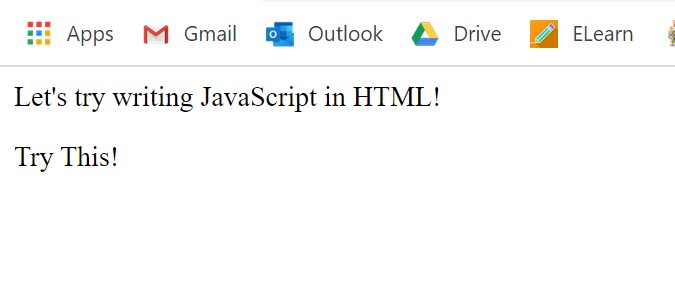
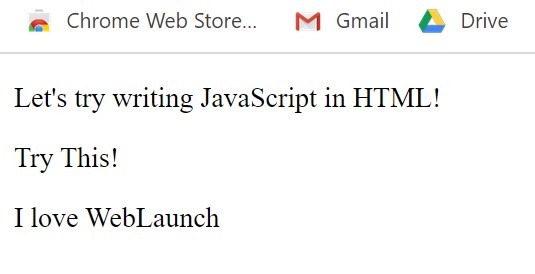
corrected misplaced images

diff --git a/how-to-write-javascript-in-html.md b/how-to-write-javascript-in-html.md
@@ -12,7 +12,7 @@ Over here, we are going to teach you 3 methods to write a message in JavaScript.
 <!-- > This will be the output in your browser
 >> ![](.gitbook/assets/image%20%289%29.png) -->
 
-| This will be the output in your browser |
+|   This will be the output in your browser |
 |:--|
 | ![](.gitbook/assets/image%20%289%29.png) |
 
@@ -22,7 +22,7 @@ Over here, we are going to teach you 3 methods to write a message in JavaScript.
 * **document.write\(\)**
 
 ```javascript
-document.write("Hello World");
+    document.write("Hello World");
 ```
 
 > This will be the output in your browser
@@ -42,22 +42,22 @@ document.write("Hello World");
 <br>
 
 ```HTML
-<!DOCTYPE html>
-<html>
-    <head>
-        <title>InnerHTML</title>
-    </head>
+    <!DOCTYPE html>
+    <html>
+        <head>
+            <title>InnerHTML</title>
+        </head>
 
-    <body>
-        <p>This is line 1</p>
-        <p id='change'>This is line 2</p>
+        <body>
+            <p>This is line 1</p>
+            <p id='change'>This is line 2</p>
 
-        <script>
-            document.getElementById('change').innerHTML = 'Hello World';
-        </script>
+            <script>
+                document.getElementById('change').innerHTML = 'Hello World';
+            </script>
 
-    </body>
-</html>
+        </body>
+    </html>
 ```
 <br>
 
@@ -105,4 +105,4 @@ These are the outputs:<br>
 
 | alert\(\'Hello World\'\); | document.write\(\'I love WebLaunch\'\); | document.getElementById\(\'this\'\).innerHTML=\'Change to This!\'; |
 |---|---|--|
-| ![](.gitbook/assets/gitbook_js_html_1.jpg) | ![](.gitbook/assets/gitbook_js_html_2.jpg) | ![](.gitbook/assets/gitbook_js_html_3.jpg) |
+| ![](.gitbook/assets/gitbook_js_html_2.jpg) | ![](.gitbook/assets/gitbook_js_html_1.jpg) | ![](.gitbook/assets/gitbook_js_html_3.jpg) |
